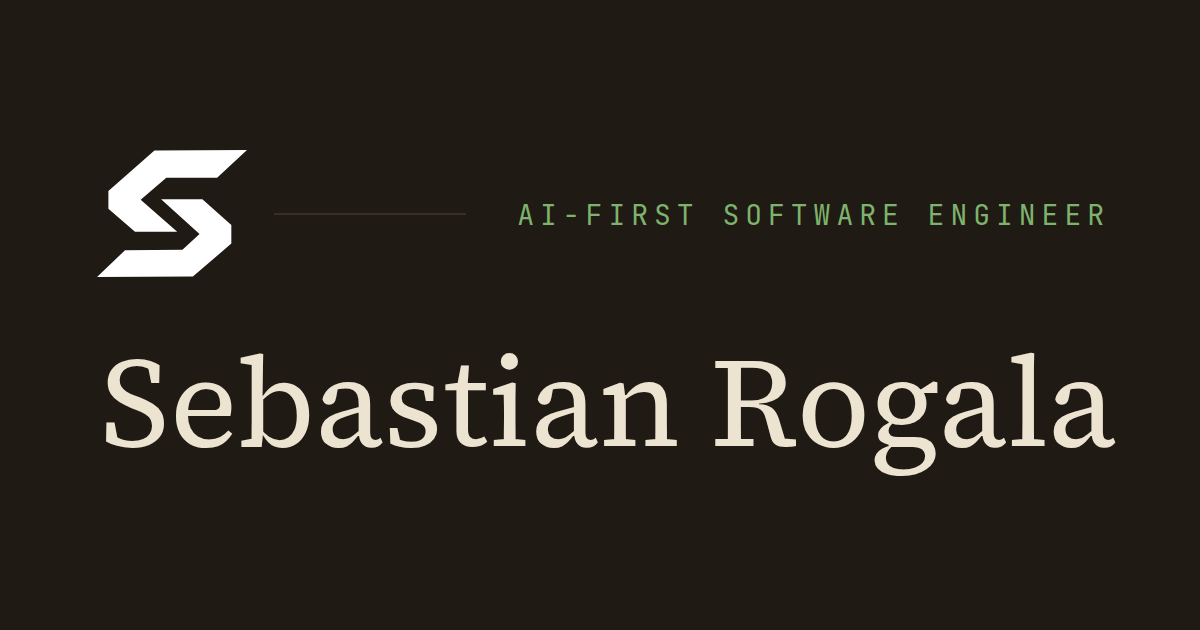
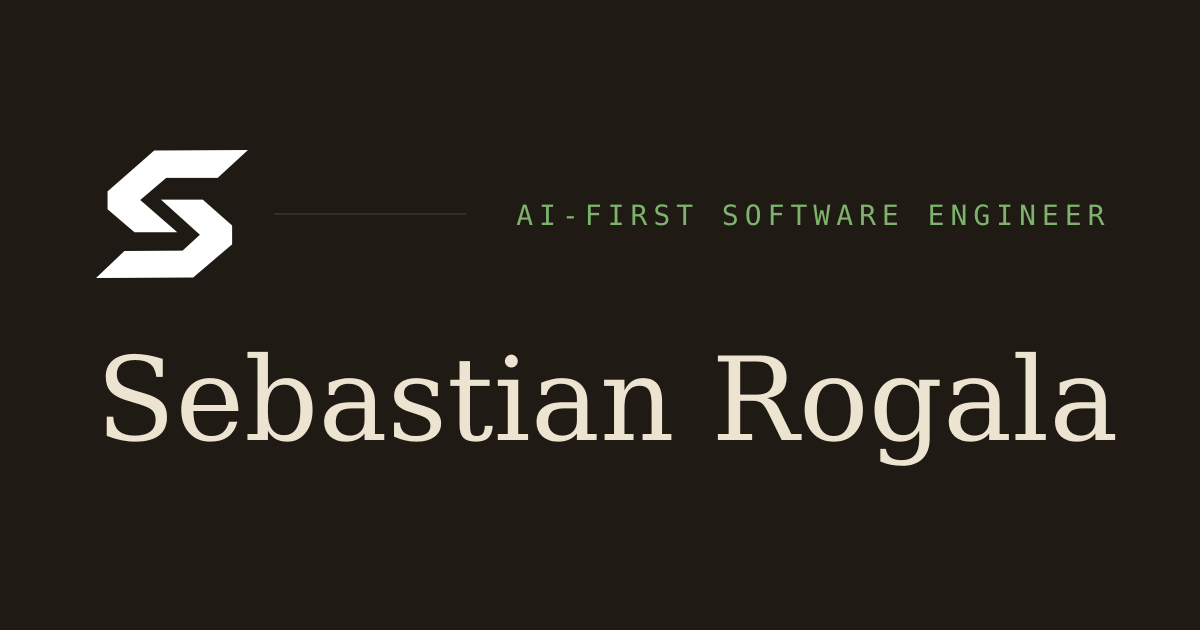
OG card v2: match v1 fonts
v2 was set in Source Serif 4 and JetBrains Mono; the owner prefers v1's
type. v1 was rendered in DejaVu Serif (name, 116px) and DejaVu Sans Mono
(tagline, 28px, 6px letter-spacing), fitted against v1 pixel by pixel.

Adds brand/og-card/ (HTML template + render.sh) with those fonts named
explicitly, so the card reproduces. Only the tagline differs from v1:
AI-FIRST SOFTWARE ENGINEER, with the rule ending 50px before it.

diff --git a/brand/og-card/og-card.html b/brand/og-card/og-card.html
@@ -1,0 +1,41 @@
+<!doctype html>
+<!--
+  Social card (og:image), 1200x630. Rendered by render.sh next to this file.
+  Geometry and type match public/og-card-v1.png (fitted to it pixel by pixel):
+  name in DejaVu Serif 116px, tagline in DejaVu Sans Mono 28px with 6px letter-spacing.
+  Fonts are named explicitly so the render does not depend on a fallback.
+  Rendered at 2x and box-downscaled; a 1x render hints the glyphs differently.
+  The rule runs from x=274 to 50px before the tagline box, so a longer tagline
+  gives a shorter rule.
+-->
+<html>
+<head>
+<meta charset="utf-8">
+<style>
+  html, body { margin: 0; width: 1200px; height: 630px; overflow: hidden; background: #1f1a14; position: relative; }
+  .mark { position: absolute; left: 96px; top: 150px; width: 152px; }
+  .rule { position: absolute; left: 274px; top: 213px; height: 2px; background: #372f26; }
+  .tag {
+    position: absolute; right: 95.5px; top: 202px;
+    font-family: 'DejaVu Sans Mono'; font-size: 28px; line-height: 1;
+    letter-spacing: 6px; margin-right: -6px;
+    color: #7db36c; white-space: nowrap;
+  }
+  .name {
+    position: absolute; left: 96px; top: 342px;
+    font-family: 'DejaVu Serif'; font-size: 116px; line-height: 1;
+    color: #ede3d1; white-space: nowrap;
+  }
+</style>
+</head>
+<body>
+  <img class="mark" src="../svg/sebrogala-1.2A-exact-light.svg" alt="">
+  <div class="rule" id="rule"></div>
+  <div class="tag" id="tag">AI-FIRST SOFTWARE ENGINEER</div>
+  <div class="name">Sebastian Rogala</div>
+  <script>
+    var tag = document.getElementById('tag').getBoundingClientRect();
+    document.getElementById('rule').style.width = (tag.left - 50 - 274) + 'px';
+  </script>
+</body>
+</html>
